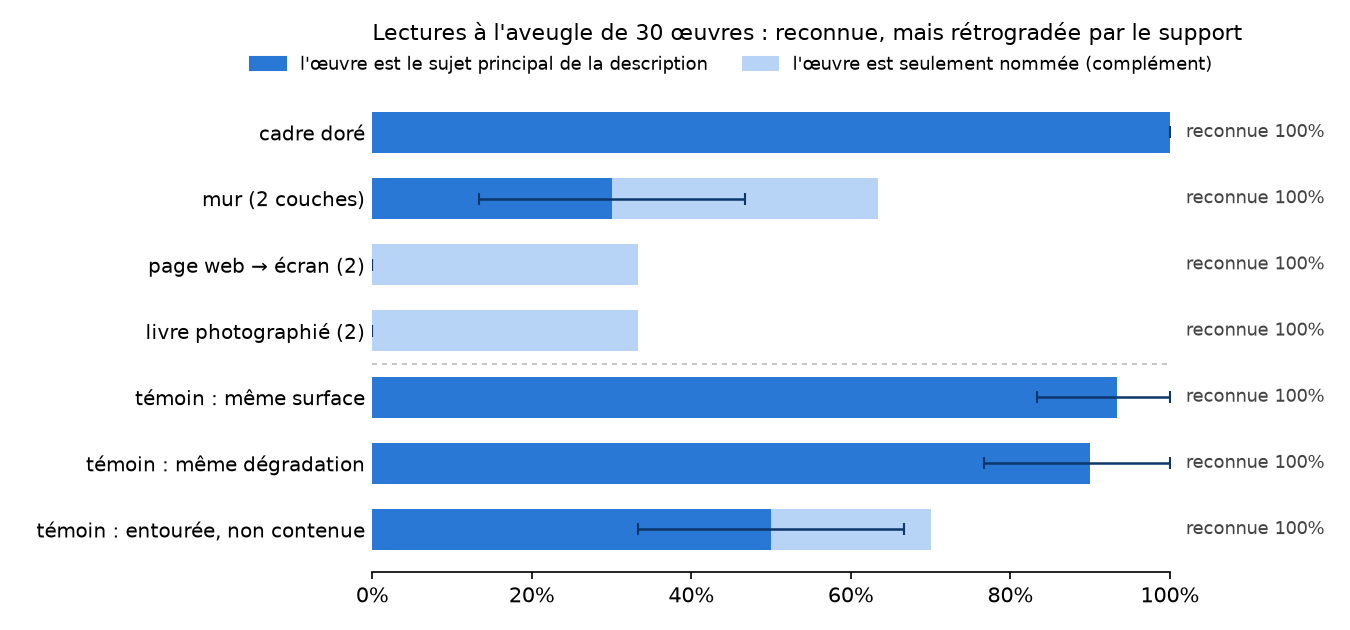
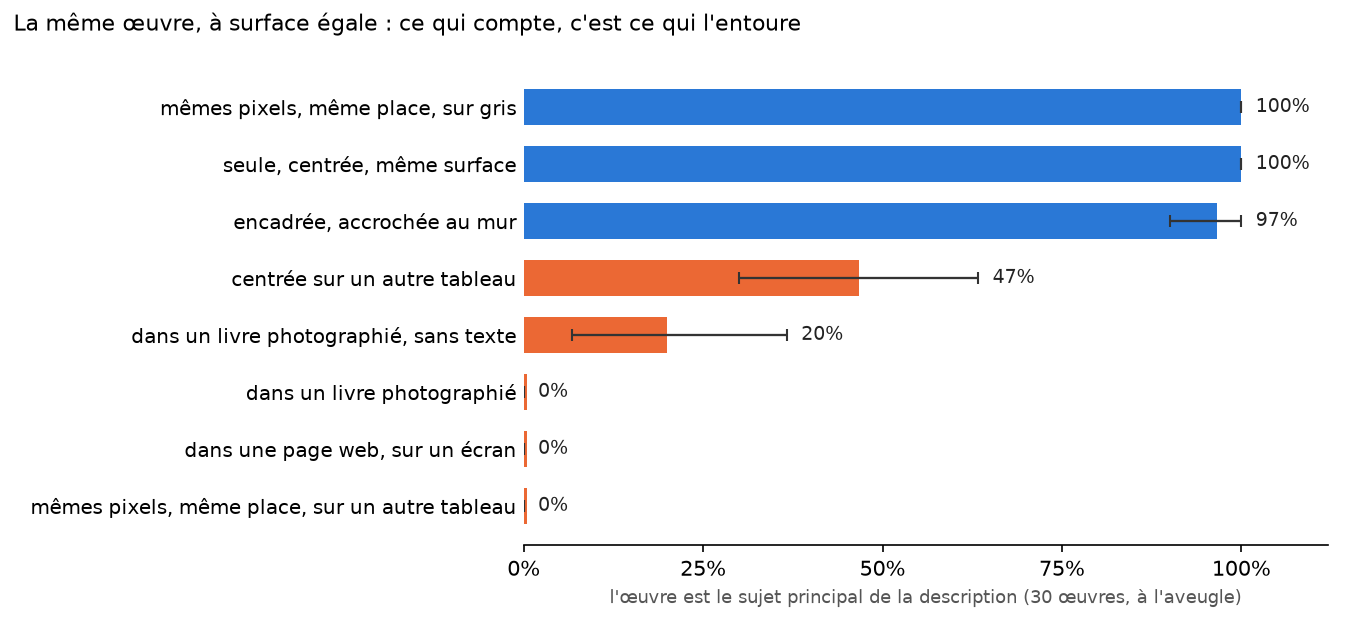
Article: the machine has no parergon — salience, not support, demotes the work; figure 1 from round 2

diff --git a/scripts/fig_verdicts.py b/scripts/fig_verdicts.py
@@ -1,39 +1,40 @@
 #!/usr/bin/env python3
-"""Figure 1 — blind readings: is the work's subject the main subject of Claude's description,
-or only named as a complement? Synthetic stages and their three same-area controls (E10b)."""
+"""Figure 1 — round 2 (subject asked alone, blind): share of descriptions where the work is the
+main subject, for the same work in eight situations at matched area."""
 
 import json
 
 import matplotlib.pyplot as plt
 
-d = json.load(open("results/E10b/blind.json"))
-syn, art = d["synthetic"], d["artwork_recognised"]
-rows = [("frame|1", "cadre doré"), ("wall|2", "mur (2 couches)"),
-        ("web|2", "page web → écran (2)"), ("book|2", "livre photographié (2)"),
-        ("match|book|2", "  témoin : même surface"), ("degr|book|2", "  témoin : même dégradation"),
-        ("clut|book|2", "  témoin : entourée, non contenue")]
+d = json.load(open("results/E10c/round2.json"))["conditions"]
+rows = [("degr", "mêmes pixels, même place, sur gris"),
+        ("match", "seule, centrée, même surface"),
+        ("wall", "encadrée, accrochée au mur"),
+        ("clut", "centrée sur un autre tableau"),
+        ("book_notext", "dans un livre photographié, sans texte"),
+        ("book", "dans un livre photographié"),
+        ("web", "dans une page web, sur un écran"),
+        ("degclut", "mêmes pixels, même place, sur un autre tableau")]
 fig, ax = plt.subplots(figsize=(9, 4.2), dpi=150)
-for y, (key, label) in enumerate(rows):
-    main, named = syn[key]["main"], syn[key]["named"]
-    rec = art.get(f"syn|{key}", {}).get("share", [float("nan")])[0]
-    ax.barh(y, named[0], color="#b7d3f6", height=0.62)
-    ax.barh(y, main[0], color="#2a78d6", height=0.62)
-    ax.errorbar(main[0], y, xerr=[[main[0] - main[1]], [main[2] - main[0]]], color="#0d366b",
-                capsize=3, lw=1.2)
-    ax.text(1.02, y, f"reconnue {rec:.0%}", va="center", fontsize=8.5, color="#444")
+for y, (k, label) in enumerate(rows):
+    v = d[k]
+    col = "#2a78d6" if k in ("degr", "match", "wall") else "#eb6834"
+    ax.barh(y, max(v["main"], 0.004), color=col, height=0.62)
+    lo, hi = v["main_ci"]
+    ax.errorbar(v["main"], y, xerr=[[v["main"] - lo], [hi - v["main"]]], color="#333",
+                capsize=3, lw=1.1)
+    ax.text(hi + 0.02, y, f"{v['main']:.0%}", va="center", fontsize=9, color="#222")
 ax.set_yticks(range(len(rows)), [r[1] for r in rows], fontsize=9.5)
 ax.invert_yaxis()
-ax.set_xlim(0, 1)
+ax.set_xlim(0, 1.12)
+ax.set_xticks([0, 0.25, 0.5, 0.75, 1])
 ax.xaxis.set_major_formatter(plt.FuncFormatter(lambda v, _: f"{v:.0%}"))
-ax.axhline(3.5, color="#bbb", lw=0.8, ls=(0, (3, 3)))
+ax.set_xlabel("l'œuvre est le sujet principal de la description (30 œuvres, à l'aveugle)",
+              fontsize=8.5, color="#555")
 for s in ("top", "right", "left"):
     ax.spines[s].set_visible(False)
 ax.tick_params(axis="y", length=0)
-handles = [plt.Rectangle((0, 0), 1, 1, color="#2a78d6"), plt.Rectangle((0, 0), 1, 1, color="#b7d3f6")]
-ax.legend(handles, ["l'œuvre est le sujet principal de la description",
-                    "l'œuvre est seulement nommée (complément)"], ncol=2, frameon=False,
-          fontsize=8.5, loc="lower center", bbox_to_anchor=(0.45, 1.0))
-ax.set_title("Lectures à l'aveugle de 30 œuvres : reconnue, mais rétrogradée par le support",
-             fontsize=10.5, loc="left", pad=24)
+fig.suptitle("La même œuvre, à surface égale : ce qui compte, c'est ce qui l'entoure",
+             fontsize=10.5, x=0.01, ha="left")
 fig.tight_layout()
 fig.savefig("article/figures/fig-sujet-support.png")

diff --git a/article/article.md b/article/article.md
@@ -1,4 +1,4 @@
-# Ce que le support montre : cadres emboîtés et lecture des images par les machines
+# La machine n'a pas de parergon : cadres emboîtés et lecture des images
 
 *Projet *punctured sky*, octobre 2026 — https://github.com/maribakulj/punctured-sky. Chaque chiffre
 renvoie à un fichier de `results/` ou `data/annotations/` ; `make all` reproduit les mesures.*
@@ -8,18 +8,17 @@ renvoie à un fichier de `results/` ou `data/annotations/` ; `make all` reprodui
 Une œuvre nous parvient emboîtée dans des supports : cadre, mur, photographie, page de livre,
 écran. La théorie du cadre soutient que le cadre isole l'œuvre et la désigne ; la vision par
 ordinateur traite ces supports comme un bruit à ignorer. Nous avons fait passer 300 œuvres de musée
-à travers des chaînes de supports fabriqués, avec pour chaque étape trois témoins de même surface
-(l'œuvre seule ; l'œuvre avec la même dégradation de pixels ; l'œuvre entourée sans être contenue),
-puis vérifié sur 171 vraies reproductions de 22 œuvres. Trois encodeurs (CLIP, SigLIP, DINOv2) et
-un modèle descriptif (Claude, lu à l'aveugle et jugé par un autre modèle) ont été interrogés. Un
-cadre doré seul ne change rien. Un support qui *contient* des images — livre, écran, salle — fait
-autre chose : le modèle descriptif identifie le sujet de l'œuvre (100 %), mais elle cesse d'être ce que
-l'image représente (0 % au livre photographié, contre 90 à 93 % pour les témoins de même surface
-ou de même dégradation et 50 % pour l'œuvre seulement entourée). L'œuvre devient ce que le support
-montre. Sur de vraies reproductions, cette rétrogradation croît avec le nombre de couches à
-surface égale, alors que l'identification du sujet de l'œuvre reste presque totale ; les encodeurs, eux, perdent
-l'œuvre avec les couches au-delà de sa surface. Les machines ne traitent pas le support comme un
-bruit : elles en font, selon le cas, ce qui dilue l'œuvre ou ce qui la contient.
+à travers des chaînes de supports fabriqués, en comparant chaque étape à des témoins de même
+surface (l'œuvre seule ; les mêmes pixels dégradés à la même place, sur du gris ou sur un autre
+tableau), puis vérifié sur 131 vraies reproductions de 22 œuvres. Trois encodeurs (CLIP, SigLIP,
+DINOv2) et un modèle descriptif (Claude, lu à l'aveugle, jugé par un autre modèle) ont été
+interrogés. Aucun des deux types de machine ne traite le support comme un cadre. Un cadre doré ne
+change rien. Dans un livre photographié ou sur un écran, le modèle descriptif identifie encore le
+sujet de l'œuvre, mais n'en fait plus le sujet de sa phrase (0 sur 30) — exactement comme lorsque
+les mêmes pixels, à la même place, sont posés sur un autre tableau (0 sur 30), alors que sur du
+gris ils restent le sujet (30 sur 30). Ce qui décide, c'est la saillance de l'œuvre dans l'image,
+non la nature de ce qui l'entoure ; les encodeurs, de même, perdent l'œuvre avec tout entourage,
+support ou non. Pour la machine, le support n'enveloppe pas le sens : il fait partie de la scène.
 
 ## 1. La question
 
@@ -247,6 +246,9 @@ la chaîne sur une image blanche puis noire avec la même graine) :
 - **encombrement** : l'œuvre, à la même surface, posée sans cadre sur le détail d'un autre
   tableau (le centre seulement, pour qu'il ne montre lui-même ni cadre ni montage) — quelque chose
   l'entoure, mais pas un support qui la contient.
+- **mêmes pixels sur un autre tableau** : l'étape elle-même, dont tous les pixels qui ne sont pas
+  l'œuvre sont remplacés par le détail d'un autre tableau — même place, même dégradation, même
+  entourage riche, mais aucun support ; et le **livre photographié sans aucun texte**.
 
 La trame est décomposée à part (section 4.5) : sa dominante de couleur seule, le flou seul, des
 points sans dominante à trois finesses, la rephotographie seule.
@@ -261,7 +263,7 @@ points sans dominante à trois finesses, la rephotographie seule.
   lecture), interrogé **à l'aveugle** : chaque image est copiée sous un nom opaque ; le sujet
   (« que représente cette image ? » et « quelle œuvre est reproduite, et que
   représente-t-elle ? ») et les supports (chaîne, nombre de couches) sont demandés dans deux
-  appels séparés, sans exemple.
+  appels séparés, sans exemple ; dans une seconde manche, la question du sujet est posée seule.
 - **Un juge** d'un autre modèle (Claude Opus), lui aussi à l'aveugle (identifiants opaques, ordre
   mélangé), qui dit pour chaque description si le sujet de l'œuvre y est nommé, et s'il est le
   sujet *principal* de la phrase ou seulement un complément (« un livre qui reproduit… »).
@@ -301,28 +303,37 @@ l'œuvre. Le médium lu suit d'ailleurs l'enveloppe la plus extérieure, comme o
 attendre : accrochée au mur, presque toute œuvre devient « une peinture » pour CLIP ; dans un livre
 photographié, « une estampe » ; les témoins de même surface gardent la répartition d'origine.
 
-### 4.3 Reconnue, mais rétrogradée
+### 4.3 Ce qui fait passer l'œuvre au second plan
 
-Le résultat principal porte sur ce que le modèle descriptif fait de l'œuvre quand un support la
-contient (figure 1). Prenons l'œuvre imprimée dans un livre ouvert photographié sur une table
-(deux couches ; l'œuvre couvre environ 12 % de l'image). À la question « quelle œuvre est
-reproduite, et que représente-t-elle ? », Claude en identifie le sujet dans 30 cas sur 30 (sans
-forcément savoir de quelle œuvre il s'agit : ce n'est pas une identification du titre). Mais à la question « que représente cette
-image ? », le sujet de l'œuvre n'est le sujet principal de sa phrase dans **aucun** cas : il écrit
-« un livre ouvert intitulé *Histoire de l'art*, avec… la reproduction d'un tableau… ». Même chose
-à l'écran (0 sur 30) ; au mur, 9 sur 30.
+Nous avons posé au modèle descriptif une seule question, dans un appel à part : « que représente
+cette image ? ». Un juge, à l'aveugle, dit si le sujet de l'œuvre est le sujet principal de la
+réponse ou seulement un complément (figure 1).
 
-Les trois témoins, à surface égale, excluent les explications simples. L'œuvre seule sur du gris
-est le sujet principal dans 93 % des cas [83 ; 100] ; avec exactement la même dégradation de
-pixels, 90 % [77 ; 100] ; posée sur un autre tableau qui l'entoure sans la contenir, 50 % [33 ; 67].
-Ce n'est donc ni la taille, ni la dégradation, et pas seulement l'entourage : c'est le fait d'être
-**contenue par un support qui montre des images** — un livre, un écran, une salle de musée — qui
-fait de l'œuvre un complément. Le support devient ce que l'image représente ; l'œuvre devient ce
-que le support montre.
+Seule, centrée, à la surface qu'elle occupe dans le livre photographié, l'œuvre est le sujet
+principal dans 30 cas sur 30. Encadrée et accrochée au mur, dans 29 sur 30. Dans le livre
+photographié ou dans une page web affichée sur un écran, dans **aucun** : « un livre ouvert
+intitulé *Histoire de l'art*, avec… la reproduction d'un tableau ». Une première manche, où la
+question du sujet était posée dans le même appel que « quelle œuvre est reproduite ? », donnait le
+même résultat au livre et à l'écran.
 
-À six couches, tout s'éteint, témoins compris : l'œuvre ne couvre que 0,2 % de l'image, Claude n'en
-identifie plus le sujet dans 83 % des cas (même dégradation : 97 %). Cette profondeur mesure un plancher
-de résolution, pas un effet des supports, et nous n'en tirons rien.
+Faut-il en conclure que le support qui *contient* l'œuvre la rétrograde ? Une seconde manche
+répond non. Nous avons gardé exactement les pixels de l'œuvre tels qu'ils sont dans le livre
+photographié — même place, même taille, même perspective, même flou — et remplacé tout le reste,
+soit par du gris, soit par le détail d'un autre tableau. Sur du gris, l'œuvre reste le sujet
+principal dans 30 cas sur 30 ; sur un autre tableau, dans **0 sur 30**, autant que dans le livre.
+Le livre sans aucun texte la laisse sujet principal dans 6 cas sur 30 : il rétrograde plutôt
+*moins* qu'un tableau (+0,20 [0,07 ; 0,33]) ; le texte lisible ajoute un peu (−0,20 [−0,33 ;
+−0,07]). L'œuvre centrée sur un autre tableau reste sujet principal dans la moitié des cas (47 %).
+
+Ce qui fait passer l'œuvre au second plan n'est donc ni le support ni le fait d'être contenue, mais
+sa **saillance** : un petit élément décentré dans une image dont le reste se décrit lui-même —
+livre, écran ou n'importe quel tableau — devient un complément. Le modèle identifie toujours le
+sujet de l'œuvre (98 à 100 %) ; il change seulement de quoi il parle.
+
+Deux réserves. Le format de la question pèse : au mur, l'œuvre était sujet principal dans 30 % des
+cas quand on demandait aussi « quelle œuvre ? », dans 97 % quand on ne demandait que le sujet. Et à
+six couches, quand l'œuvre ne couvre plus que 0,2 % de l'image, tout s'éteint, témoins compris :
+c'est un plancher de résolution, dont nous ne tirons rien.
 
 ### 4.4 Sur de vraies reproductions
 
@@ -367,25 +378,26 @@ retenues sont celles qui tiennent sur le réel.
 
 ## 5. Discussion
 
-**Ce que le support montre.** La théorie du cadre dit que le cadre isole l'œuvre et la désigne.
-Nos résultats déplacent cette idée. Pour une machine, un cadre intérieur ne fait rien : il n'est
-qu'un motif autour de l'œuvre. Ce qui agit, c'est le support qui *contient* des images — le livre,
-l'écran, la salle. Le modèle descriptif identifie l'œuvre, mais la phrase change de sujet : ce que
-l'image représente devient le support, et l'œuvre devient ce que le support montre. Un entourage
-qui ne contient pas l'œuvre ne produit cet effet qu'à moitié ; la taille et la dégradation, pas du
-tout. La rétrogradation est syntaxique avant d'être perceptive.
+**La machine n'a pas de parergon.** La théorie du cadre décrit une limite qui isole l'œuvre et la
+désigne. Nos deux machines n'en ont pas. Un cadre doré ne change rien à ce qu'elles retrouvent ni à
+ce qu'elles disent : il n'est qu'un motif autour de l'œuvre. Un livre, un écran, une salle ne font
+pas plus qu'un autre tableau posé autour d'elle : ils ne contiennent pas l'œuvre, ils l'entourent.
+Le modèle descriptif organise sa phrase selon ce qui domine l'image ; l'encodeur résume l'image
+entière en un vecteur où tout entourage dilue l'œuvre. Ni l'un ni l'autre ne traite le support
+comme un bruit à ignorer, ce que supposent les travaux sur l'invariance, mais ni l'un ni l'autre
+ne le traite comme un cadre : il fait partie de la scène.
 
-**Deux machines, deux rapports au support.** L'encodeur résume l'image entière en un vecteur :
-l'entourage y dilue l'œuvre, et chaque couche coûte au-delà de la surface. Le modèle qui décrit
-sépare au contraire identifier et décrire : il identifie l'œuvre tant que les pixels le
-permettent, quel que soit le nombre de couches, mais il la range sous le support. Ni l'un ni
-l'autre ne traite le support comme un bruit à ignorer, ce que supposent les travaux sur
-l'invariance.
+**Ce que cela dit de l'intuition de départ.** L'idée que le cadre « enveloppe une partie du sens »
+est vraie de la peinture et du regard humain que décrit la théorie ; nos mesures disent qu'elle ne
+l'est pas, telle quelle, pour ces machines. Ce n'est pas un résultat négatif sans intérêt : il dit
+que la fonction du cadre — séparer, désigner — est précisément ce qui manque à la lecture
+automatique des images, et qu'elle devra être apportée de l'extérieur (détection de l'œuvre,
+recadrage) pour qu'une machine lise une reproduction comme une reproduction.
 
 **Conséquence pratique.** Dans des archives de reproductions (photos de salle, livres numérisés,
-captures d'écran), une recherche par encodeur retrouvera moins bien les œuvres à mesure que les
-couches s'empilent, et une description automatique les nommera comme ce que montrent des
-supports. Il faut décrire *et* identifier séparément.
+captures d'écran), une recherche par encodeur retrouvera moins bien les œuvres à mesure qu'elles
+se perdent dans la scène, et une description automatique les nommera comme des détails. Il faut
+localiser l'œuvre avant de la décrire ou de la chercher.
 
 **Ce qui reste attendu**, et que nous ne développons pas : le cadre intérieur est inerte ; le
 médium lu suit l'enveloppe ; une œuvre trop petite n'est plus reconnue.
